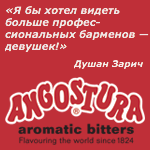
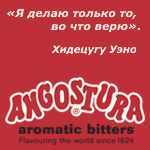
content update

Changed region(s): [[0.0267, 0.0267, 0.9333, 0.3733], [0.48, 0.4, 0.96, 0.48], [0.9333, 0.2133, 0.9867, 0.24]]

diff --git a/htdocs/blog/links.html b/htdocs/blog/links.html
@@ -1,3 +1,4 @@
+<li><a href="/blog/rules-28-06-2012/">Правила работы: Хидецугу Уэно</a></li>
 <li><a href="/blog/interior-27-06-2012/">Детали в барах: Новэ</a></li>
 <li><a href="/blog/decorate-26-06-2012/">Безумные украшения: Супер Мэри</a></li>
 <li><a href="/blog/cocktail-hit-26-06-2012/">Авторский хит: Сейнт Пи</a></li>
@@ -7,10 +8,10 @@
 <li><a href="/blog/friends-23-06-2012/">Добавляем в друзья: Екатерина Байс</a></li>
 <li><a href="/blog/open-22-06-2012/">Обустрой интерьер своего бара: Мебель</a></li>
 <li><a href="/blog/rules-21-06-2012/">Правила работы: Душан Зарич</a></li>
-<li><a href="/blog/cocktail-classics-20-06-2012/">Коктейльная классика: Мохито</a></li>
 <li><a href="/blog/interior-20-06-2012/">Детали в барах: Иммертрой</a></li>
-<li><a href="/blog/cocktail-hit-19-06-2012/">Авторский хит: Рори</a></li>
+<li><a href="/blog/cocktail-classics-20-06-2012/">Коктейльная классика: Мохито</a></li>
 <li><a href="/blog/decorate-19-06-2012/">Безумные украшения: Гарна дивчина</a></li>
+<li><a href="/blog/cocktail-hit-19-06-2012/">Авторский хит: Рори</a></li>
 <li><a href="/blog/buhlo-18-06-2012/">Бухло: О трубке Петра Первого, роме Bacardi, «Старом Городе» и Каймане</a></li>
 <li><a href="/blog/cocktail-rating-17-06-2012/">Коктейльные рейтинги: Топ 10 коктейлей с ягодами</a></li>
 <li><a href="/blog/diageo-world-class-16-06-2012/">Diageo Reserve World Class 2012</a></li>
@@ -19,8 +20,8 @@
 <li><a href="/blog/open-15-06-2012/">Оборудуй кухню в своем баре</a></li>
 <li><a href="/blog/rules-14-06-2012/">Правила работы: Вячеслав Ланкин</a></li>
 <li><a href="/blog/interior-13-06-2012/">Детали в барах: Беккетс копф</a></li>
-<li><a href="/blog/cocktail-hit-12-06-2012/">Авторский хит: Захарофф форест</a></li>
 <li><a href="/blog/decorate-12-06-2012/">Безумные украшения: Осенний локон</a></li>
+<li><a href="/blog/cocktail-hit-12-06-2012/">Авторский хит: Захарофф форест</a></li>
 <li><a href="/blog/buhlo-11-06-2012/">Бухло: Банкетки и фуршетки</a></li>
 <li><a href="/blog/cocktail-rating-10-06-2012/">Коктейльные рейтинги: Топ 10 коктейлей с лимончелло</a></li>
 <li><a href="/blog/diageo-world-class-09-06-2012/">Diageo Reserve World Class 2012</a></li>
@@ -36,8 +37,8 @@
 <li><a href="/blog/diageo-world-class-02-06-2012/">Diageo Reserve World Class 2012</a></li>
 <li><a href="/blog/friends-02-06-2012/">Добавляем в друзья: Орсон Салицетти</a></li>
 <li><a href="/blog/open-01-06-2012/">Построй свой бар</a></li>
-<li><a href="/blog/news-01-06-2012/">Что нового?</a></li>
 <li><a href="/blog/learning-01-06-2012/">Хочу всё знать: Писко. Яблоко раздора Перу и Чили</a></li>
+<li><a href="/blog/news-01-06-2012/">Что нового?</a></li>
 <li><a href="/blog/rules-31-05-2012/">Правила работы: Екатерина Байс</a></li>
 <li><a href="/blog/interior-30-05-2012/">Детали в барах: Клокс</a></li>
 <li><a href="/blog/decorate-29-05-2012/">Безумные украшения: Розетка</a></li>
@@ -80,9 +81,9 @@
 <li><a href="/blog/rules-03-05-2012/">Правила работы: Андрей Козлов</a></li>
 <li><a href="/blog/interior-03-05-2012/">Детали в барах: Майяуэль</a></li>
 <li><a href="/blog/window-02-05-2012/">Барные витрины: Уфа</a></li>
-<li><a href="/blog/news-01-05-2012/">Что нового?</a></li>
-<li><a href="/blog/decorate-01-05-2012/">Безумные украшения: Шемрок</a></li>
 <li><a href="/blog/cocktail-hit-01-05-2012/">Авторский хит: Платиновая ягода</a></li>
+<li><a href="/blog/decorate-01-05-2012/">Безумные украшения: Шемрок</a></li>
+<li><a href="/blog/news-01-05-2012/">Что нового?</a></li>
 <li><a href="/blog/buhlo-30-04-2012/">Бухло: Республика Калифорния</a></li>
 <li><a href="/blog/cocktail-rating-29-04-2012/">Коктейльные рейтинги: Топ 10 с Кампари</a></li>
 <li><a href="/blog/diageo-world-class-28-04-2012/">Diageo Reserve World Class 2012</a></li>
@@ -100,8 +101,8 @@
 <li><a href="/blog/interior-19-04-2012/">Детали в барах: Ле Форум</a></li>
 <li><a href="/blog/rules-19-04-2012/">Правила работы: Роман Торощин</a></li>
 <li><a href="/blog/cocktail-classics-18-04-2012/">Коктейльная классика: Авиация</a></li>
-<li><a href="/blog/cocktail-hit-17-04-2012/">Авторский хит: Уэкфилдский треугольник</a></li>
 <li><a href="/blog/decorate-17-04-2012/">Безумные украшения: Яблочный цветок</a></li>
+<li><a href="/blog/cocktail-hit-17-04-2012/">Авторский хит: Уэкфилдский треугольник</a></li>
 <li><a href="/blog/buhlo-16-04-2012/">Бухло: Закусь «Николашка» и нужно ли греть коньяк?</a></li>
 <li><a href="/blog/cocktail-rating-15-04-2012/">Коктейльные рейтинги: Топ 10 розовых коктейлей для девочек</a></li>
 <li><a href="/blog/diageo-world-class-14-04-2012/">Diageo Reserve World Class 2012</a></li>
@@ -116,16 +117,16 @@
 <li><a href="/blog/cocktail-rating-08-04-2012/">Коктейльные рейтинги: Топ 10 коктейлей на целую компанию</a></li>
 <li><a href="/blog/diageo-world-class-07-04-2012/">Diageo Reserve World Class 2012</a></li>
 <li><a href="/blog/friends-07-04-2012/">Добавляем в друзья: Ладо Прангишвили</a></li>
-<li><a href="/blog/learning-06-04-2012/">Хочу всё знать: Вишневая сказка Питера Херинга </a></li>
 <li><a href="/blog/open-06-04-2012/">Найди деньги на открытие своего бара: Банковский кредит</a></li>
+<li><a href="/blog/learning-06-04-2012/">Хочу всё знать: Вишневая сказка Питера Херинга </a></li>
 <li><a href="/blog/rules-05-04-2012/">Правила работы: Алексей Шапошников</a></li>
 <li><a href="/blog/interior-05-04-2012/">Детали в барах: 22.13</a></li>
 <li><a href="/blog/window-04-04-2012/">Барные витрины: Ростов-на-Дону</a></li>
-<li><a href="/blog/cocktail-hit-03-04-2012/">Авторский хит: Лакомый кусочек</a></li>
 <li><a href="/blog/decorate-03-04-2012/">Безумные украшения: Рассвет на острове</a></li>
+<li><a href="/blog/cocktail-hit-03-04-2012/">Авторский хит: Лакомый кусочек</a></li>
 <li><a href="/blog/buhlo-02-04-2012/">Бухло: Профессор Нужный</a></li>
-<li><a href="/blog/cocktail-rating-01-04-2012/">Коктейльные рейтинги: Топ 10 победителей IBA</a></li>
 <li><a href="/blog/news-01-04-2012/">Что нового?</a></li>
+<li><a href="/blog/cocktail-rating-01-04-2012/">Коктейльные рейтинги: Топ 10 победителей IBA</a></li>
 <li><a href="/blog/diageo-world-class-31-03-2012/">Diageo Reserve World Class 2012</a></li>
 <li><a href="/blog/friends-31-03-2012/">Добавляем в друзья: Артем Емельшин</a></li>
 <li><a href="/blog/open-30-03-2012/">Составь бизнес-план своего бара</a></li>
@@ -160,8 +161,8 @@
 <li><a href="/blog/open-09-03-2012/">Придумай концепцию своего бара</a></li>
 <li><a href="/blog/interior-08-03-2012/">Детали в барах: Барри бар</a></li>
 <li><a href="/blog/window-07-03-2012/">Барные витрины: Екатеринбург</a></li>
-<li><a href="/blog/cocktail-hit-06-03-2012/">Авторский хит: Мармеладная маргарита</a></li>
 <li><a href="/blog/decorate-06-03-2012/">Безумные украшения: Апельсиновый хвост</a></li>
+<li><a href="/blog/cocktail-hit-06-03-2012/">Авторский хит: Мармеладная маргарита</a></li>
 <li><a href="/blog/bacardi-legacy-05-03-2012/">Bacardi Global Legacy Cocktail Competition 2011</a></li>
 <li><a href="/blog/buhlo-05-03-2012/">Бухло: Учебные пособия по самогоноварению (которыми пользоваться не надо)</a></li>
 <li><a href="/blog/cocktail-rating-04-03-2012/">Коктейльные рейтинги: Топ 10 коктейлей с кофе</a></li>

diff --git a/htdocs/blog/rules-28-06-2012/rules-28-06-2012.html b/htdocs/blog/rules-28-06-2012/rules-28-06-2012.html
@@ -1,0 +1,91 @@
+<!DOCTYPE html>
+<html lang="ru" id="blog-post-page" class="blog-section branding-short">
+<head>
+	<!--# include virtual="/inc/blog-head.html" -->
+	<meta property="fb:app_id" content="212377082118520">
+	<title>Правила работы: Хидецугу Уэно — Супер Блог — Inshaker</title>
+</head>
+<body>
+<!--# include virtual="/inc/common-top.html" -->
+<div id="common-main-wrapper">
+
+<!--# include virtual="/inc/blog-top.html" -->
+
+<div id="the-one">
+
+<div class="post">
+	<h1 class="title" data-title="Правила работы: Хидецугу Уэно">Правила работы: Хидецугу Уэно</h1>
+	<div class="body">
+		<p><a href="/barman/ueno-hidetsugu/">Хидецугу Уэно</a> владелец бара «Хай Файв», 44 года, Токио.</p>
+<p><div class="image-box"><img src="/blog/rules-28-06-2012/i/1.jpg" class="image"/></div>
+<div class="image-box"><img src="/blog/rules-28-06-2012/i/7.png" class="image"/></div></p>
+<p><p><b>Перед началом рабочего дня</b> я обычно проверяю почту, помогаю прибраться и собраться барменам.</p></p>
+<p><hr></p>
+<p><p><b>Форс-мажор для меня</b> – наблюдать посетителей, которые относятся к бармену с превосходством. Такое постоянно происходит с моими коллегами.</p></p>
+<p><hr></p>
+<p><p><b>Я впадаю в ярость</b>, когда кто-то из гостей заведения обращается с моими девушками-барменами как с хостес.</p></p>
+<p><hr></p>
+<p><p><b>Лучшее в моей работе</b> – иметь возможность видеть, как гости улыбаются в моем баре.</p></p>
+<p><hr></p>
+<p><p><b>С пьяными посетителями</b> я справляюсь просто – вежливо прошу покинуть заведение.</p></p>
+<p><hr></p>
+<p><p><b>Для меня идеальный бармен</b> должен быть нейтральным. Он должны безоговорочно верить в свое дело и быть гибкими, когда дело касается особенностей любимых напитков посетителей.</p></p>
+<p><hr></p>
+<p><p><b>Бармен не должен</b> заставлять гостей полагаться на его вкус в миксовании коктейлей, но он должен заставить их следовать правилам, заведенным в баре. </p></p>
+<p><hr></p>
+<p><p><b>Чтобы я принял бармена на работу</b>, он должен иметь определенный настрой, чтобы принять мое руководство, мнение  и главенство как начальника.</p></p>
+<p><hr></p>
+<p><p><b>Тем, кто хочет сделать карьеру бармена</b>, я советую быть терпеливым и твердо стоять на своем, чтобы остаться в барной индустрии.</p></p>
+<p><hr></p>
+<p><p><b>Я не вижу</b> каких-то определенных проблем в развитии барной индустрии Токио. Возможно, это тянущаяся плохая экономическая ситуация во всей стране в целом.</p></p>
+<p><hr></p>
+<p><p><b>Работа бармена в Японии</b> – одна из самых мало ценимых. Раньше бармены с трудом могли позволить себе снять комнату или оформить кредитную карточку. Нашей деятельности не доверяют, я просто хочу, чтобы ее перестали осуждать у нас за спиной.</p></p>
+<p><hr></p>
+<p><p><b>Удачный рабочий день</b> – день, когда хотя бы один гость скажет, что он счастлив. </p></p>
+<p><hr></p>
+<p><p><b>Я делаю</b> только то, во что верю.</p></p>
+<p><div class="image-box"><img src="/blog/rules-28-06-2012/i/10.png" class="image"/></div></p>
+<p><hr></p>
+<p><i>Автор статьи — <a href="http://www.facebook.com/lina.marish">Полина Маришичева</a>, променявшая карьеру дипломата в Азии на «Белый русский» и коктейльную журналистику, при горькой поддержке биттеров <a href="/combinator.html#q%3DАнгостура%20биттер%26s%3Dincreasing-complexity%26y%3D0">Angostura</a>.</i></p>
+	</div>
+	<div class="more">
+		<div id="share-box">
+			<a class="button vkontakte" href="http://vkontakte.ru/share.php?url=${url}"><i></i></a><a class="button facebook" href="http://www.facebook.com/sharer.php?u=${url}&t=${text}"><i></i></a><a class="button twitter" href="http://twitter.com/share?url=${url}&text=${text}&via=inshaker&related=inshaker&lang=ru"><i></i></a>
+		</div>
+		
+		<div class="tags">
+			Теги:
+			<ul class="list">
+				
+				<li class="tag"><a class="link" href="/blog/#tag=правила работы">правила работы</a></li>
+				
+			</ul>
+		</div>
+		<a class="deeper" href="/blog/">← сколько всего интересного</a>
+		<span class="date">28 июня 2012</span>
+	</div>
+</div>
+
+</div id="the-one">
+
+
+<div id="fb-root"></div>
+<script src="http://connect.facebook.net/ru_RU/all.js#xfbml=1"></script>
+<fb:comments id="fb-comments-conf" num_posts="50" width="590"></fb:comments>
+<script>
+document.getElementById('fb-comments-conf').setAttribute('href', location.href)
+</script>
+
+
+<div id="tag-cloud">
+	Все теги:
+	<ul class="list">
+		<li class="tag all"><a class="link" href="/blog/">все посты</a></li>
+	</ul>
+</div>
+
+
+</div id="common-main-wrapper">
+<!--# include virtual="/inc/blog-footer.html" -->
+</body>
+</html>

diff --git a/htdocs/blog/rules-28-06-2012/preview-snippet.html b/htdocs/blog/rules-28-06-2012/preview-snippet.html
@@ -1,0 +1,2 @@
+<p><div class="image-box"><a href="/blog/rules-28-06-2012/#the-one"><img src="/blog/rules-28-06-2012/i/1.jpg" class="image"/></a></div></p>
+<p>«Я делаю только то, во что верю».</p>
